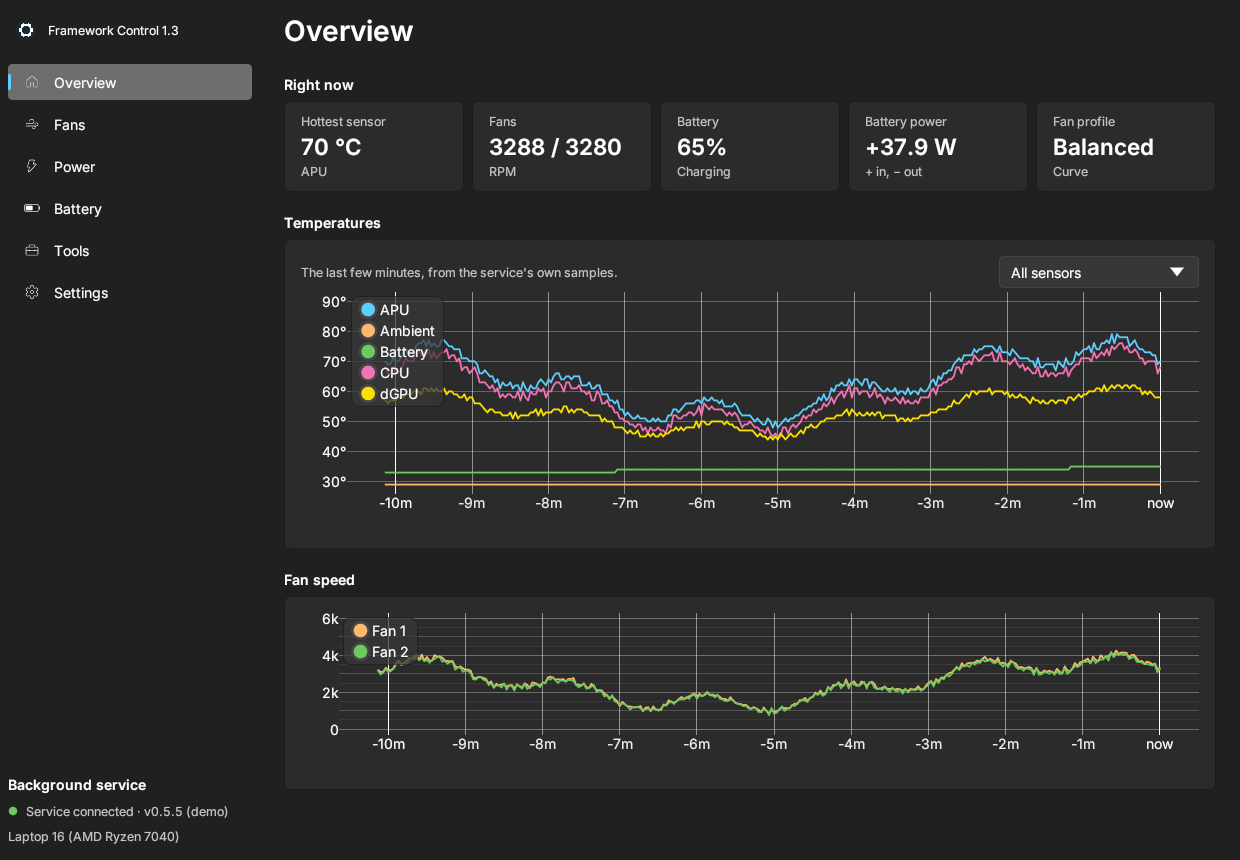
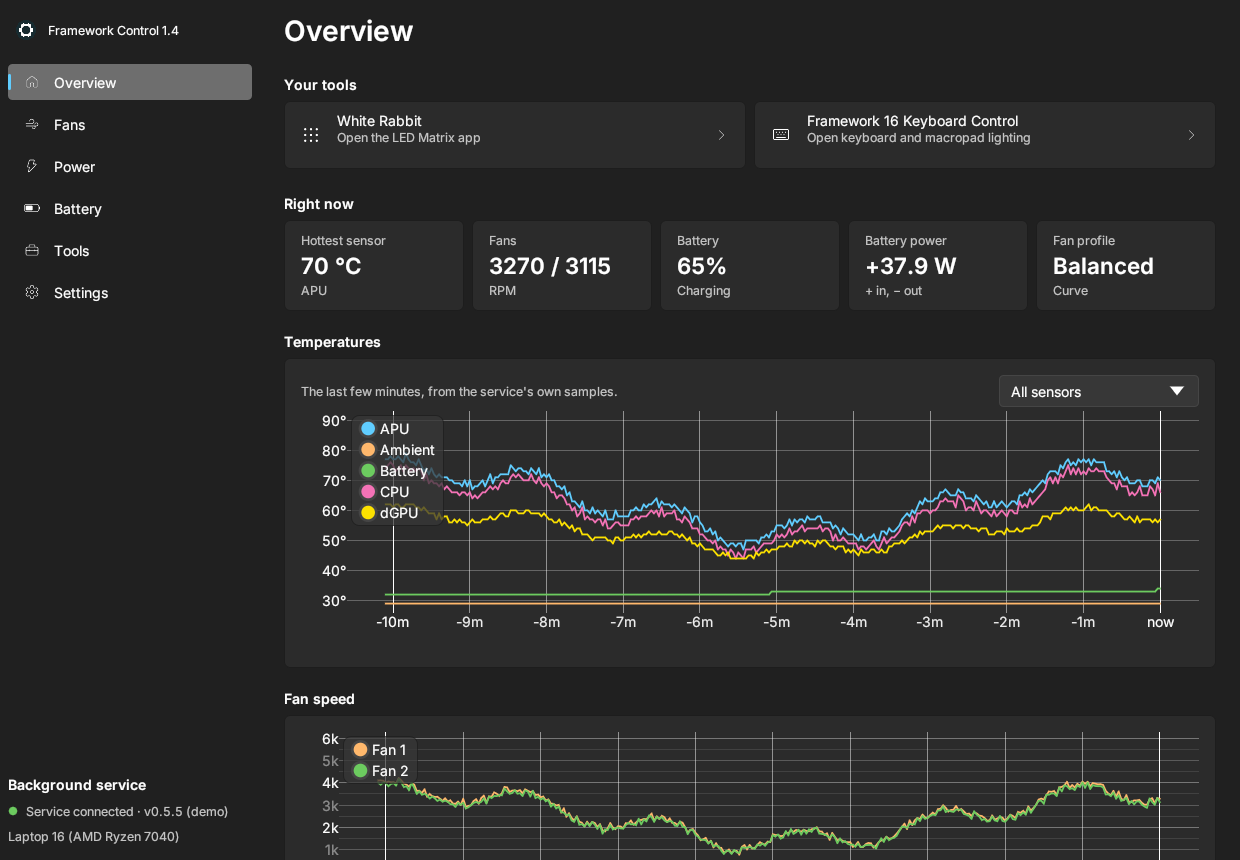
Overview: quick-launch cards for installed tools; GitHub links on Tools (1.4.0)
Cards for White Rabbit and Framework 16 Keyboard Control appear at the top of
the Overview when they're installed or picked with Browse. Tool locations are
cached for a few seconds instead of checked every frame. The Tools page gets
an On GitHub section, and each tool's small link now says GitHub.

Claude-Session: https://claude.ai/code/session_01RrKeqgPQh8a3G9UMAwVSc1

diff --git a/native/src/pages/tools.rs b/native/src/pages/tools.rs
@@ -12,6 +12,8 @@ use crate::theme;
 use crate::widgets::{accent_button, button, card, section, status_line, Icon};
 
 const RUNNING_CHECK_EVERY: Duration = Duration::from_secs(3);
+/// How long tool locations are trusted before looking on disk again.
+const LOCATE_EVERY: Duration = Duration::from_secs(5);
 
 #[derive(Default)]
 pub struct ToolsUi {
@@ -20,6 +22,8 @@ pub struct ToolsUi {
     running_job: Option<Task<Vec<String>>>,
     last_check: Option<Instant>,
     msg: Option<(String, bool)>,
+    /// Where each tool in TOOLS was found, refreshed every few seconds.
+    located: Option<(Instant, Vec<Found>)>,
 }
 
 impl ToolsUi {
@@ -34,6 +38,68 @@ impl ToolsUi {
     fn is_running(&self, exe: &str) -> bool {
         self.running.iter().any(|r| r.eq_ignore_ascii_case(exe))
     }
+
+    /// Where each tool is (same order as TOOLS), cached for a few seconds.
+    fn locate_all(&mut self) -> Vec<Found> {
+        if let Some((t, found)) = &self.located {
+            if t.elapsed() < LOCATE_EVERY {
+                return found.clone();
+            }
+        }
+        let settings = self.settings.get_or_insert_with(LocalSettings::load);
+        let found: Vec<Found> = TOOLS.iter().map(|tool| launcher::locate(tool, settings)).collect();
+        self.located = Some((Instant::now(), found.clone()));
+        found
+    }
+
+    fn launch(&mut self, tool: &launcher::ToolDef, path: &std::path::Path, args: &[&str]) {
+        self.msg = Some(match launcher::launch(path, args) {
+            Ok(()) => (format!("Started {}.", tool.name), false),
+            Err(e) => (e, true),
+        });
+        // Re-check soon so the status catches up with the new process.
+        self.last_check = Some(Instant::now() - RUNNING_CHECK_EVERY + Duration::from_millis(1500));
+    }
+}
+
+fn tool_icon(tool: &launcher::ToolDef) -> Icon {
+    match tool.id {
+        "white-rabbit" => Icon::Panels,
+        _ => Icon::Keyboard,
+    }
+}
+
+/// "Your tools" at the top of the Overview: one card per tool that is installed or was picked with
+/// Browse. Nothing is shown when neither is found.
+pub fn quick_launch(app: &mut App, ui: &mut Ui) {
+    let t = &mut app.tools;
+    let found = t.locate_all();
+    let available: Vec<(&launcher::ToolDef, std::path::PathBuf)> = TOOLS
+        .iter()
+        .zip(found)
+        .filter_map(|(tool, f)| f.path().map(|p| (tool, p.to_path_buf())))
+        .collect();
+    if available.is_empty() {
+        return;
+    }
+    section(ui, "Your tools");
+    let mut clicked: Option<usize> = None;
+    ui.columns(available.len().max(2), |cols| {
+        for (i, (tool, _)) in available.iter().enumerate() {
+            let help = match tool.id {
+                "white-rabbit" => "Open the LED Matrix app",
+                _ => "Open keyboard and macropad lighting",
+            };
+            if card(&mut cols[i], Some(tool_icon(tool)), tool.name, help, true, |_| {}).clicked() {
+                clicked = Some(i);
+            }
+        }
+    });
+    if let Some(i) = clicked {
+        let (tool, path) = &available[i];
+        t.launch(tool, path, tool.actions[0].args);
+    }
+    status_line(ui, &t.msg);
 }
 
 pub fn show(app: &mut App, ui: &mut Ui) {
@@ -52,13 +118,10 @@ pub fn show(app: &mut App, ui: &mut Ui) {
     crate::widgets::hint(ui, "They run on their own, so closing Framework Control leaves them running.");
     ui.add_space(4.0);
 
-    for tool in TOOLS {
-        let found = launcher::locate(tool, t.settings.as_ref().unwrap());
+    let located = t.locate_all();
+    for (tool, found) in TOOLS.iter().zip(located) {
         let running = t.is_running(tool.exe);
-        let icon = match tool.id {
-            "white-rabbit" => Icon::Panels,
-            _ => Icon::Keyboard,
-        };
+        let icon = tool_icon(tool);
         let c = theme::colors(ui.ctx());
         let status = match (&found, running) {
             (_, true) => "Running",
@@ -72,12 +135,7 @@ pub fn show(app: &mut App, ui: &mut Ui) {
                     let r = if n == 0 { accent_button(ui, action.label) } else { button(ui, action.label) };
                     let r = if action.hint.is_empty() { r } else { r.on_hover_text(action.hint) };
                     if r.clicked() {
-                        t.msg = Some(match launcher::launch(path, action.args) {
-                            Ok(()) => (format!("Started {}.", tool.name), false),
-                            Err(e) => (e, true),
-                        });
-                        // Re-check soon so the status catches up with the new process.
-                        t.last_check = Some(Instant::now() - RUNNING_CHECK_EVERY + Duration::from_millis(1500));
+                        t.launch(tool, path, action.args);
                     }
                 }
             }
@@ -106,11 +164,19 @@ pub fn show(app: &mut App, ui: &mut Ui) {
             if matches!(found, Found::Chosen(_)) && ui.link(RichText::new("Use default location").size(12.0)).clicked() {
                 remember(t, tool.id, None);
             }
-            ui.hyperlink_to(RichText::new("About").size(12.0), tool.project_url);
+            ui.hyperlink_to(RichText::new("GitHub").size(12.0), tool.project_url);
         });
         ui.add_space(8.0);
     }
     status_line(ui, &t.msg);
+
+    section(ui, "On GitHub");
+    for tool in TOOLS {
+        let help = format!("Source code, releases and instructions for {}.", tool.name);
+        if card(ui, Some(Icon::Open), &format!("{} project", tool.name), &help, true, |_| {}).clicked() {
+            ui.ctx().open_url(egui::OpenUrl::new_tab(tool.project_url));
+        }
+    }
 }
 
 fn remember(t: &mut ToolsUi, id: &str, path: Option<std::path::PathBuf>) {
@@ -126,4 +192,5 @@ fn remember(t: &mut ToolsUi, id: &str, path: Option<std::path::PathBuf>) {
     if let Err(e) = s.save() {
         t.msg = Some((format!("Couldn't save the tool location: {e}"), true));
     }
+    t.located = None;
 }

diff --git a/native/src/pages/overview.rs b/native/src/pages/overview.rs
@@ -26,6 +26,8 @@ pub fn show(app: &mut App, ui: &mut Ui, snap: &Snapshot) {
     let bat = snap.power.as_ref().and_then(|p| p.battery.clone());
     let profile = snap.config.as_ref().and_then(|c| c.fan.active());
 
+    crate::pages::tools::quick_launch(app, ui);
+
     section(ui, "Right now");
     stat_row(
         ui,

diff --git a/native/src/launcher.rs b/native/src/launcher.rs
@@ -104,6 +104,7 @@ impl LocalSettings {
 
 // --------------------------------------------------------------- discovery ---
 
+#[derive(Clone)]
 pub enum Found {
     /// Picked by the user with Browse…
     Chosen(PathBuf),

diff --git a/README.md b/README.md
@@ -68,8 +68,9 @@ isn't counted.</sub>
   - [**Framework 16 Keyboard Control**](https://github.com/kingof9x/framework-16-keyboard-customization),
     for keyboard and macropad lighting.
 
-  The page shows whether each tool is installed or running, and links to the
-  download when it isn't.
+  The page shows whether each tool is installed or running, links to the
+  download when it isn't, and links to each tool's GitHub project. Installed
+  tools also get one-click cards at the top of the Overview.
 - **Settings**: automatic updates, light or dark mode in your Windows accent
   colour (or follow Windows), turning features on or off (this also stops
   their background work), `framework_tool` version switching, the

diff --git a/native/CHANGELOG.md b/native/CHANGELOG.md
@@ -3,6 +3,13 @@
 Versions here are this fork's release line. The upstream service version the
 fork is synced to is recorded in `tools/parity/parity.toml`.
 
+## 1.4.0
+
+- **Your tools** at the top of the Overview: one-click cards to open White
+  Rabbit and Framework 16 Keyboard Control. Only tools that are installed
+  (or that you pointed to with *Browse*) are shown.
+- The Tools page links to each tool's GitHub project.
+
 ## 1.3.2
 
 - Installer: really no more "a restart will be required" warning. The
